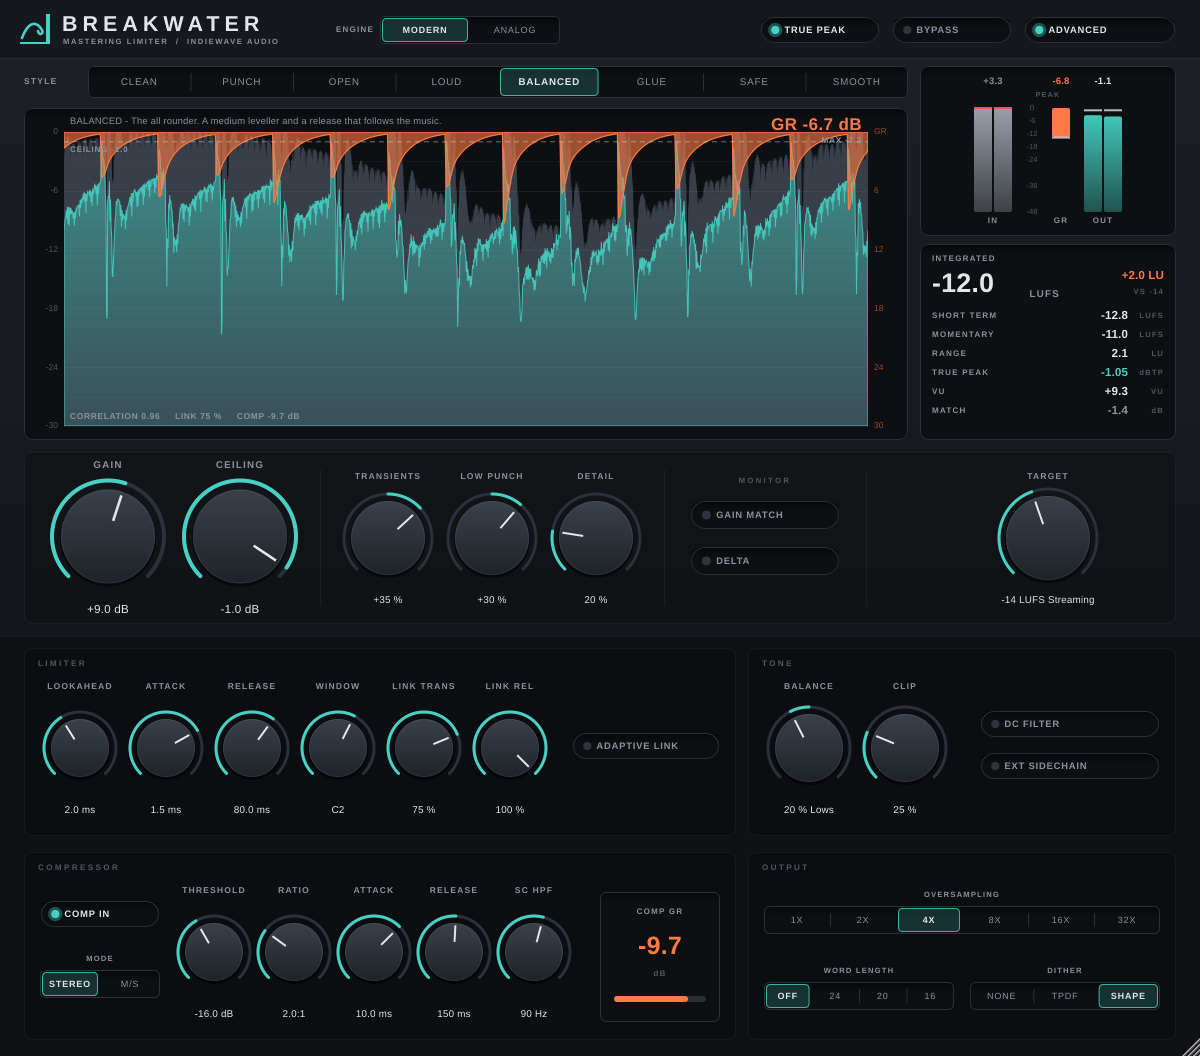
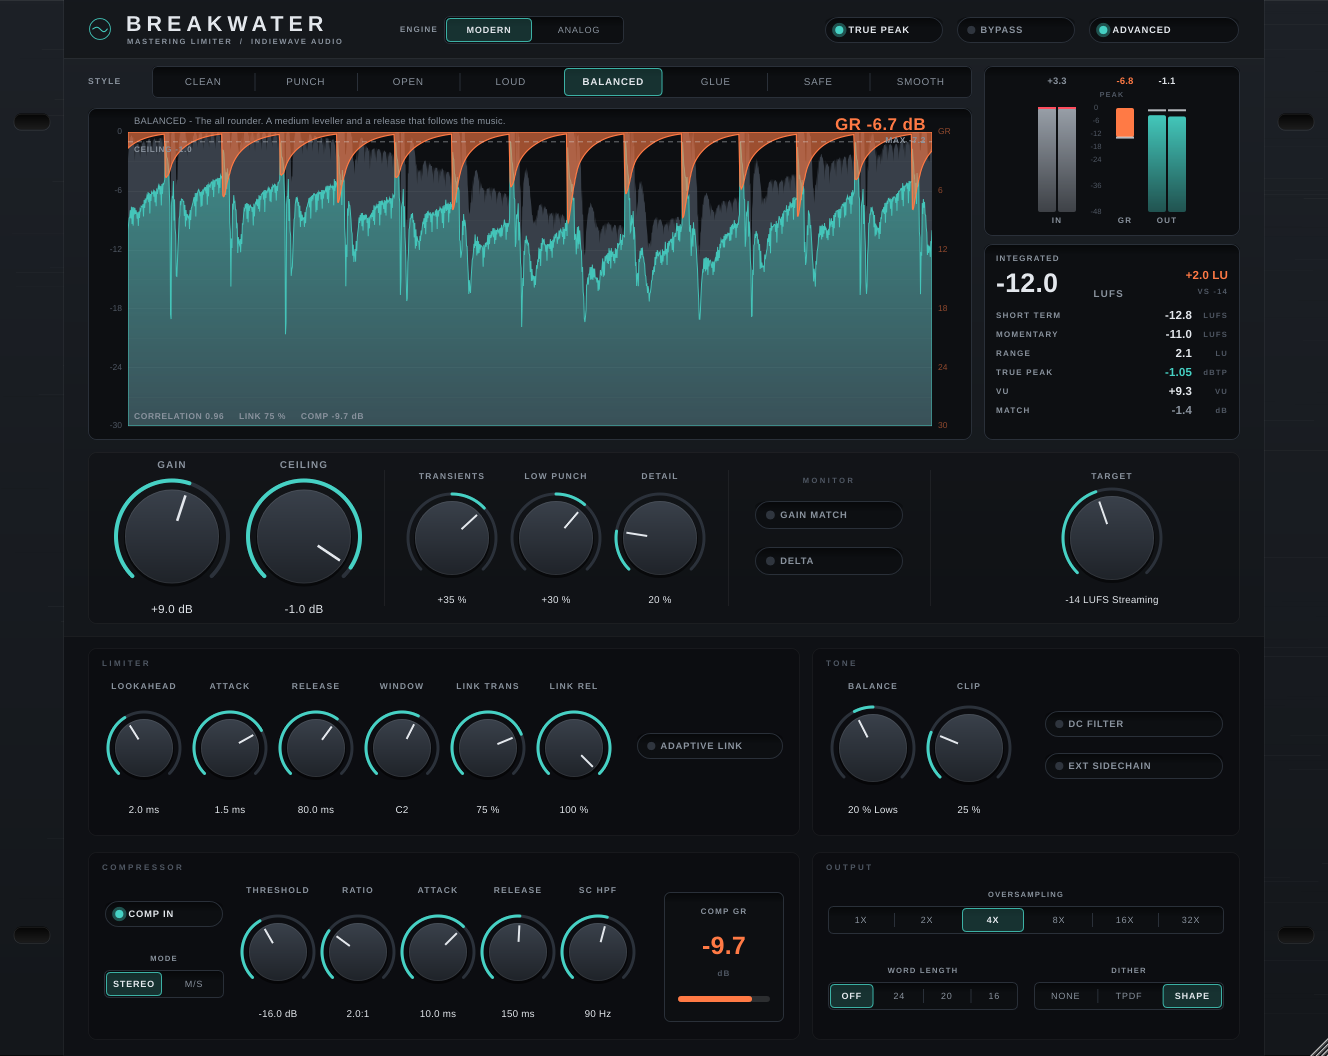
Breakwater 0.6.0: rack ears and the IndieWave mark
The face sits between rack ears on the range's plate, with the IndieWave
mark beside the name. Layout, the Advanced panel and the remembered size
are unchanged (the stored scale still means design units). Same
parameters as 0.5.0; a 0.6.0 state fixture is recorded.

Claude-Session: https://claude.ai/code/session_01V45vVyj8frZyD1iuT3MVWF

diff --git a/plugins/breakwater/src/PluginEditor.cpp b/plugins/breakwater/src/PluginEditor.cpp
@@ -318,15 +318,8 @@ void BreakwaterEditor::Face::paint (juce::Graphics& g)
     g.setColour (juce::Colours::white.withAlpha (0.05f));
     g.fillRect (0.0f, headerHeight, bounds.getWidth(), 1.0f);
 
-    // Wordmark: a swell running into a wall.
-    juce::Path wave;
-    wave.startNewSubPath (margin - 2.0f, 38.0f);
-    wave.cubicTo (margin + 4.0f, 22.0f, margin + 12.0f, 20.0f, margin + 18.0f, 30.0f);
-    wave.cubicTo (margin + 20.0f, 34.0f, margin + 15.0f, 36.0f, margin + 14.0f, 31.0f);
-    g.setColour (panel::accent);
-    g.strokePath (wave, juce::PathStrokeType (2.6f, juce::PathStrokeType::curved, juce::PathStrokeType::rounded));
-    g.fillRect (margin + 22.0f, 14.0f, 4.0f, 30.0f);
-    g.fillRect (margin - 4.0f, 42.0f, 30.0f, 2.0f);
+    // The maker's mark.
+    indiewave::ui::drawLogo (g, { margin + 12.0f, 29.0f }, 0.52f, panel::accent, panel::textDim, false);
 
     panel::drawLabel (g, "BREAKWATER", { margin + 38.0f, 10.0f, 300.0f, 28.0f }, 24.0f, panel::text,
                       juce::Justification::centredLeft, true, 5.0f);
@@ -401,6 +394,7 @@ BreakwaterEditor::BreakwaterEditor (BreakwaterProcessor& p)
 {
     addAndMakeVisible (face);
     face.setBounds (0, 0, designWidth, designHeight);
+    setOpaque (true);
 
     face.advanced.onClick = [this] { setAdvanced (face.advanced.getToggleState()); };
 
@@ -414,7 +408,7 @@ BreakwaterEditor::BreakwaterEditor (BreakwaterProcessor& p)
     scale = juce::jlimit (minimumScale, maximumScale, scale);
 
     setResizable (true, true);
-    setSize (juce::roundToInt (designWidth * scale), juce::roundToInt (designHeight * scale));
+    setSize (juce::roundToInt (panelWidth * scale), juce::roundToInt (designHeight * scale));
     setAdvanced (processor.apvts.state.getProperty (advancedProperty, false));
 
     sizeRestored = true;
@@ -434,16 +428,16 @@ void BreakwaterEditor::setAdvanced (bool shouldShow)
 {
     processor.apvts.state.setProperty (advancedProperty, shouldShow, nullptr);
 
-    const auto scale = (double) getWidth() / designWidth;
+    const auto scale = (double) getWidth() / panelWidth;
     const auto height = shouldShow ? designHeightAdvanced : designHeight;
 
     face.showAdvanced (shouldShow);
 
-    setResizeLimits (juce::roundToInt (designWidth * minimumScale), juce::roundToInt (height * minimumScale),
-                     juce::roundToInt (designWidth * maximumScale), juce::roundToInt (height * maximumScale));
+    setResizeLimits (juce::roundToInt (panelWidth * minimumScale), juce::roundToInt (height * minimumScale),
+                     juce::roundToInt (panelWidth * maximumScale), juce::roundToInt (height * maximumScale));
 
     if (auto* sizeLimits = getConstrainer())
-        sizeLimits->setFixedAspectRatio ((double) designWidth / height);
+        sizeLimits->setFixedAspectRatio ((double) panelWidth / height);
 
     setSize (getWidth(), juce::roundToInt (scale * height));
     resized();
@@ -451,19 +445,28 @@ void BreakwaterEditor::setAdvanced (bool shouldShow)
 
 void BreakwaterEditor::paint (juce::Graphics& g)
 {
-    g.fillAll (panel::faceBottom);
+    // The rack ears either side of the face, drawn at the face's scale.
+    const auto scale = (float) getWidth() / (float) panelWidth;
+    const auto height = (float) face.getHeight();
+    g.addTransform (juce::AffineTransform::scale (scale, (float) getHeight() / height));
+
+    const juce::Rectangle<float> unit (0.0f, 0.0f, (float) panelWidth, height);
+    indiewave::ui::drawPlate (g, unit, panel::faceTop, panel::faceBottom, 0x42574b);
+    indiewave::ui::drawRackEar (g, unit.withWidth ((float) earWidth), true);
+    indiewave::ui::drawRackEar (g, unit.withLeft ((float) (panelWidth - earWidth)), false);
 }
 
 void BreakwaterEditor::resized()
 {
-    face.setTransform (juce::AffineTransform::scale ((float) getWidth()  / (float) designWidth,
-                                                     (float) getHeight() / (float) face.getHeight()));
+    const auto scaleX = (float) getWidth()  / (float) panelWidth;
+    const auto scaleY = (float) getHeight() / (float) face.getHeight();
+    face.setTransform (juce::AffineTransform::scale (scaleX, scaleY).translated ((float) earWidth * scaleX, 0.0f));
 
     // Remember the size, but not the default the constructor passes through
     // on its way to the stored one.
     if (sizeRestored)
     {
-        const auto scale = (double) getWidth() / designWidth;
+        const auto scale = (double) getWidth() / panelWidth;
         processor.apvts.state.setProperty (scaleProperty, scale, nullptr);
 
         if (userSettings != nullptr)

diff --git a/plugins/breakwater/src/PluginEditor.h b/plugins/breakwater/src/PluginEditor.h
@@ -3,6 +3,7 @@
 #include "PluginProcessor.h"
 #include "gui/Display.h"
 #include "gui/Panel.h"
+#include "indiewave/ui/Panel.h"
 
 namespace breakwater
 {
@@ -12,6 +13,10 @@ namespace breakwater
 inline constexpr int designWidth          = 1200;
 inline constexpr int designHeight         = 636;
 inline constexpr int designHeightAdvanced = 1056;
+
+/** The face sits between two rack ears; the editor's width is the whole unit. */
+inline constexpr int earWidth   = 64;
+inline constexpr int panelWidth = designWidth + 2 * earWidth;
 
 class BreakwaterEditor final : public juce::AudioProcessorEditor,
                                private juce::Timer

diff --git a/plugins/breakwater/tools/Snapshot.cpp b/plugins/breakwater/tools/Snapshot.cpp
@@ -21,7 +21,7 @@ int main (int argc, char* argv[])
                                       : juce::File::getCurrentWorkingDirectory()
                                             .getChildFile ("breakwater.png").getFullPathName());
 
-    const auto width = argc > 2 ? juce::String (argv[2]).getIntValue() : breakwater::designWidth;
+    const auto width = argc > 2 ? juce::String (argv[2]).getIntValue() : breakwater::panelWidth;
 
     breakwater::BreakwaterProcessor processor;
     processor.setPlayConfigDetails (2, 2, 48000.0, 512);

diff --git a/RELEASES.md b/RELEASES.md
@@ -6,7 +6,7 @@ have their own folder under `plugins/` and their own workflow.
 | Plugin | What it is | Version | Folder | Workflow | Plugin code | Bundle id |
 | --- | --- | --- | --- | --- | --- | --- |
 | **Crest** | Converter and clipper | 0.10.0 beta | `/` | `macos.yml` | `Crst` | `audio.indiewave.crest` |
-| **Breakwater** | Mastering limiter | 0.5.0 beta | `plugins/breakwater` | `breakwater.yml` | `Brkw` | `audio.indiewave.breakwater` |
+| **Breakwater** | Mastering limiter | 0.6.0 beta | `plugins/breakwater` | `breakwater.yml` | `Brkw` | `audio.indiewave.breakwater` |
 | **Beacon** | Vari-mu tube compressor | 0.6.0 beta | `plugins/beacon` | `beacon.yml` | `Bcon` | `audio.indiewave.beacon` |
 | **Swell** | Two channel harmonic equaliser | 0.4.0 beta | `plugins/swell` | `swell.yml` | `Swll` | `audio.indiewave.swell` |
 | **Hinge** | Two channel Baxandall shelving equaliser | 0.4.0 beta | `plugins/hinge` | `hinge.yml` | `Hnge` | `audio.indiewave.hinge` |
@@ -116,6 +116,10 @@ separated by spaces. It deletes each release together with its tag.
   coefficient table exactly.
 
 ### Breakwater
+- **0.6.0** - In the range's frame: rack ears either side and the IndieWave
+  mark beside the name. The layout, the Advanced panel and the remembered
+  size are as before. Same parameters as 0.5.0, so sessions open as they
+  were.
 - **0.5.0** - First public beta (was Zenith during development). Simple view
   by default with everything else behind Advanced; the editor size is
   remembered.
